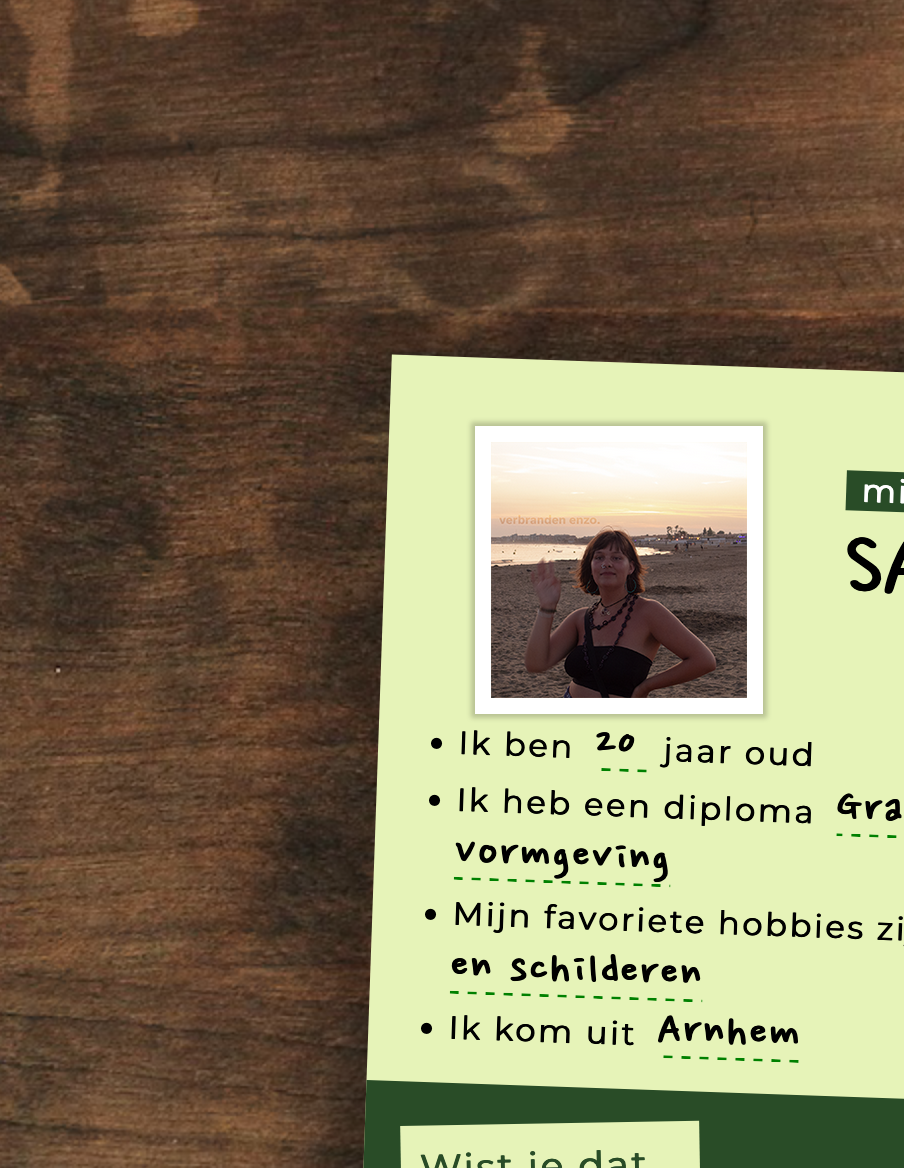
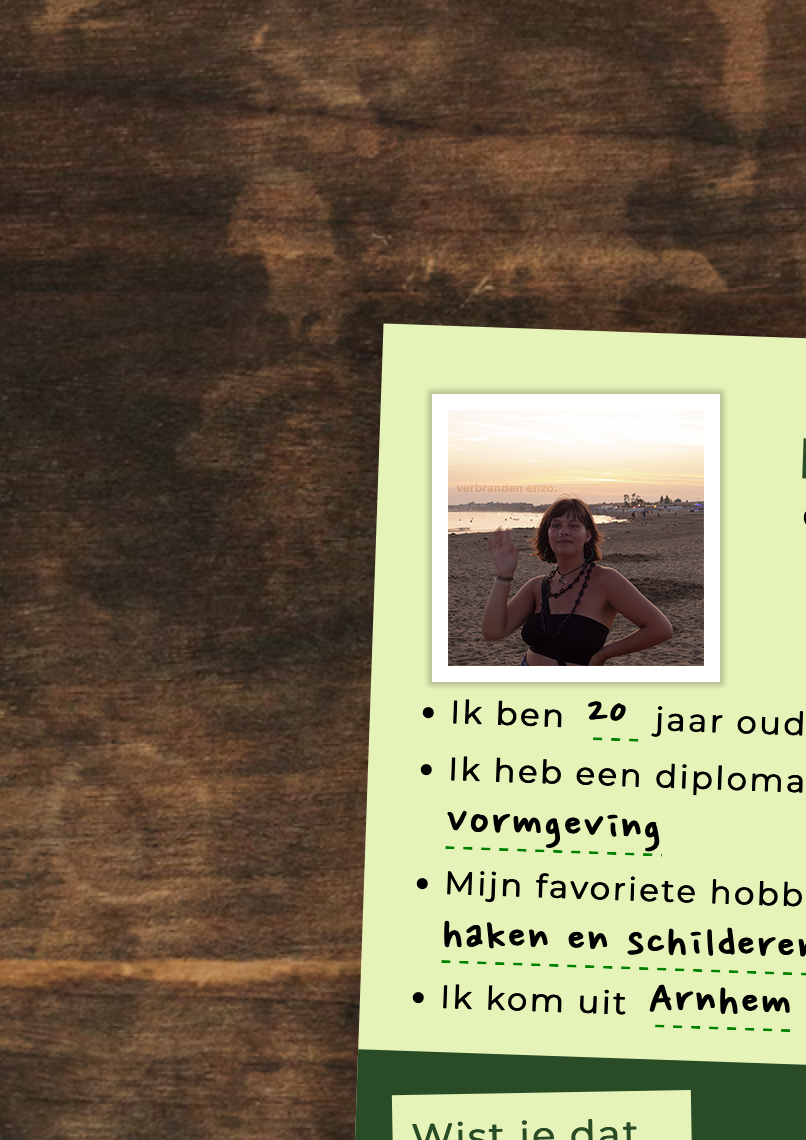
responsive ?

diff --git a/cards/cards.css b/cards/cards.css
@@ -1,3 +1,4 @@
+/*responsive image gallery video: https://www.youtube.com/watch?v=Trw_9lisYVY*/
 
 * {
   margin: 0;
@@ -6,7 +7,7 @@
 }
 
 img {
-  width: 220px;
+  width: 33vw;
 }
 
 .container {
@@ -18,7 +19,7 @@ img {
   margin: 40px 20px 0 20px;
 }
 
-.container .heading h3{
+.container .heading h3 {
   font-size: 3em;
   font-weight: bolder;
   border-bottom: 3px solid black;
@@ -32,7 +33,7 @@ img {
   display: flex;
   flex-direction: row;
   justify-content: space-between;
-  align-items:start;   
+  align-items: start;
 }
 
 .container .box .dream {
@@ -48,17 +49,21 @@ img {
   border: 3px white solid;
 }
 
-@media only screen and (max-width: 769px){
+@media only screen and (max-width: 769px) {
   .container .box {
     flex-direction: column;
-  }
+  }} 
 
-  .container .box .dream{
+  @media only screen and (max-width: 643px) {
+    .container .box .dream {
     width: 100%;
-}
-
-@media only screen and (max-width: 640) {
-  .container.heading h3 {
-    font-size: 1em;
   }
-}
+
+  .container.heading {
+    width: 100%;
+  }
+   
+    .container.heading h3 {
+      font-size: 1em;
+    }
+  }
